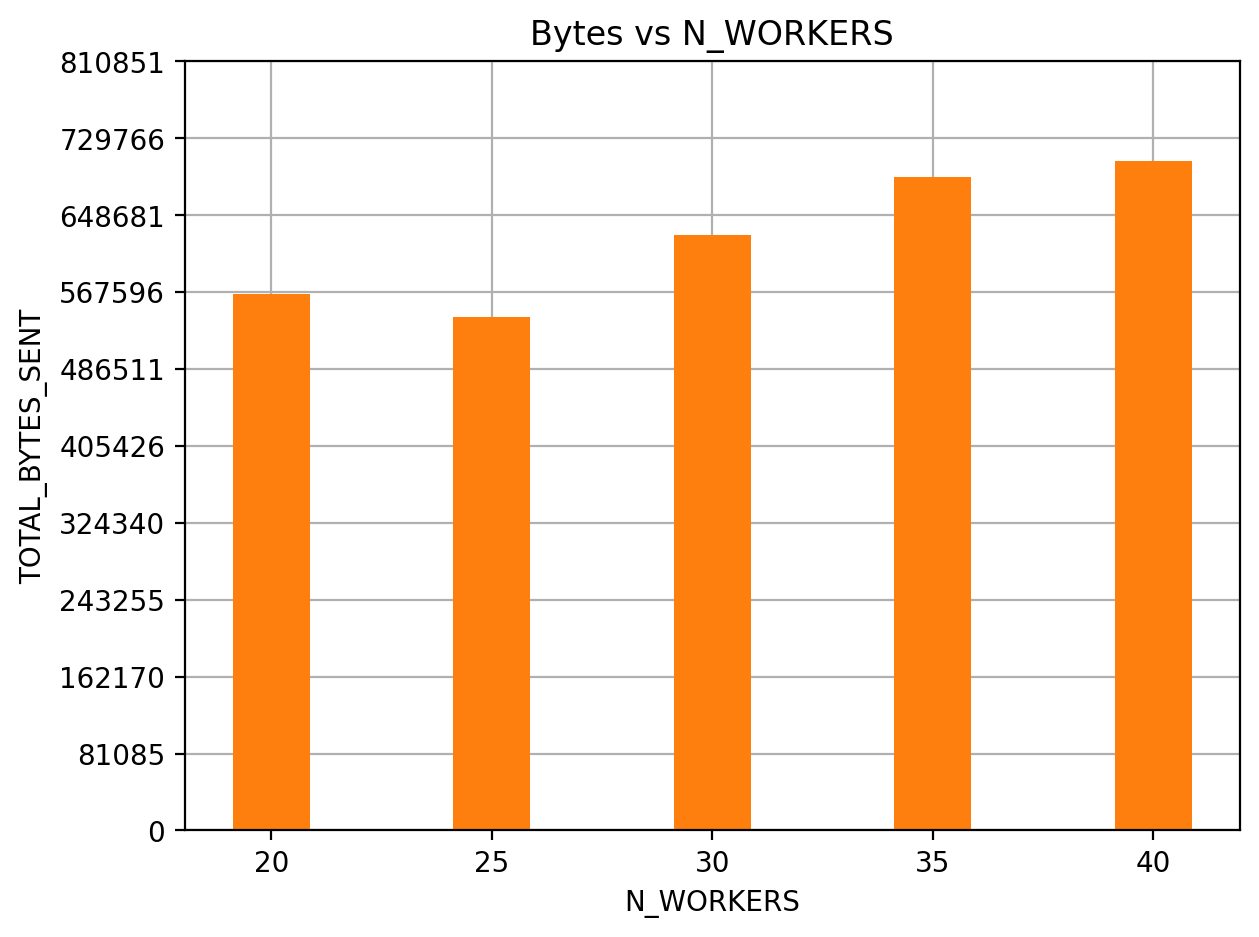
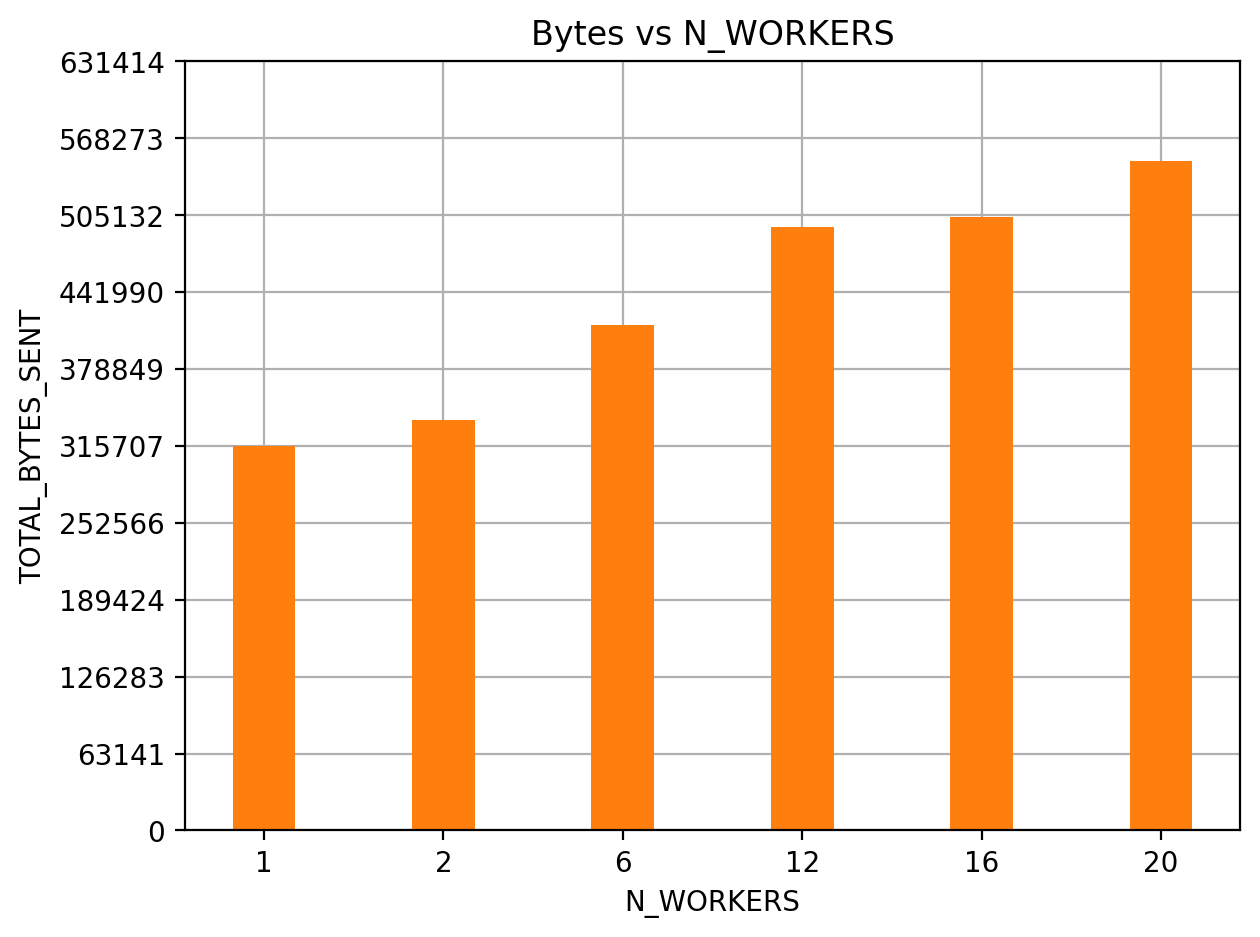
vdvdv

diff --git a/java/src/main/java/experimentation/Experimentation.java b/java/src/main/java/experimentation/Experimentation.java
@@ -86,7 +86,7 @@ public class Experimentation {
             // List<Integer> workersList = List.of(2, 12, 24); 
             // List<Integer> workersList = List.of(1, 2, 6, 12); // ignore 1 (warm up) just see 2, 12, 24
             // List<Integer> workersList = List.of(1, 2, 6, 12, 16); // ignore 1 (warm up) just see 2, 12, 24
-            // List<Integer> workersList = List.of(1, 2, 6, 12, 16, 20); 
+            List<Integer> workersList = List.of(1, 2, 6, 12, 16, 20); 
             // List<Integer> workersList = List.of(1, 2, 6, 12, 16, 20, 24); 
             // List<Integer> workersList = List.of(24); 
 
@@ -95,7 +95,7 @@ public class Experimentation {
             // Scenario with high workers:
             
             // List<Integer> workersList = List.of(6, 12, 18, 24, 30);
-            List<Integer> workersList = List.of(20, 25, 30, 35, 40);
+            // List<Integer> workersList = List.of(20, 25, 30, 35, 40);
 
             try (BufferedWriter w = Files.newBufferedWriter(
                     csvPath,
@@ -677,7 +677,7 @@ public class Experimentation {
                     resetTopics();
 
                     // ======================================================================
-                    
+
                     ExperimentResult r = SimulationRunner.runOnce(cfg);
 
                     w.write(String.format("%s,%s,", cfg.ENABLE_NEIGHBORHOODS, cfg.NEIGHBORHOOD_TOPOLOGY));
